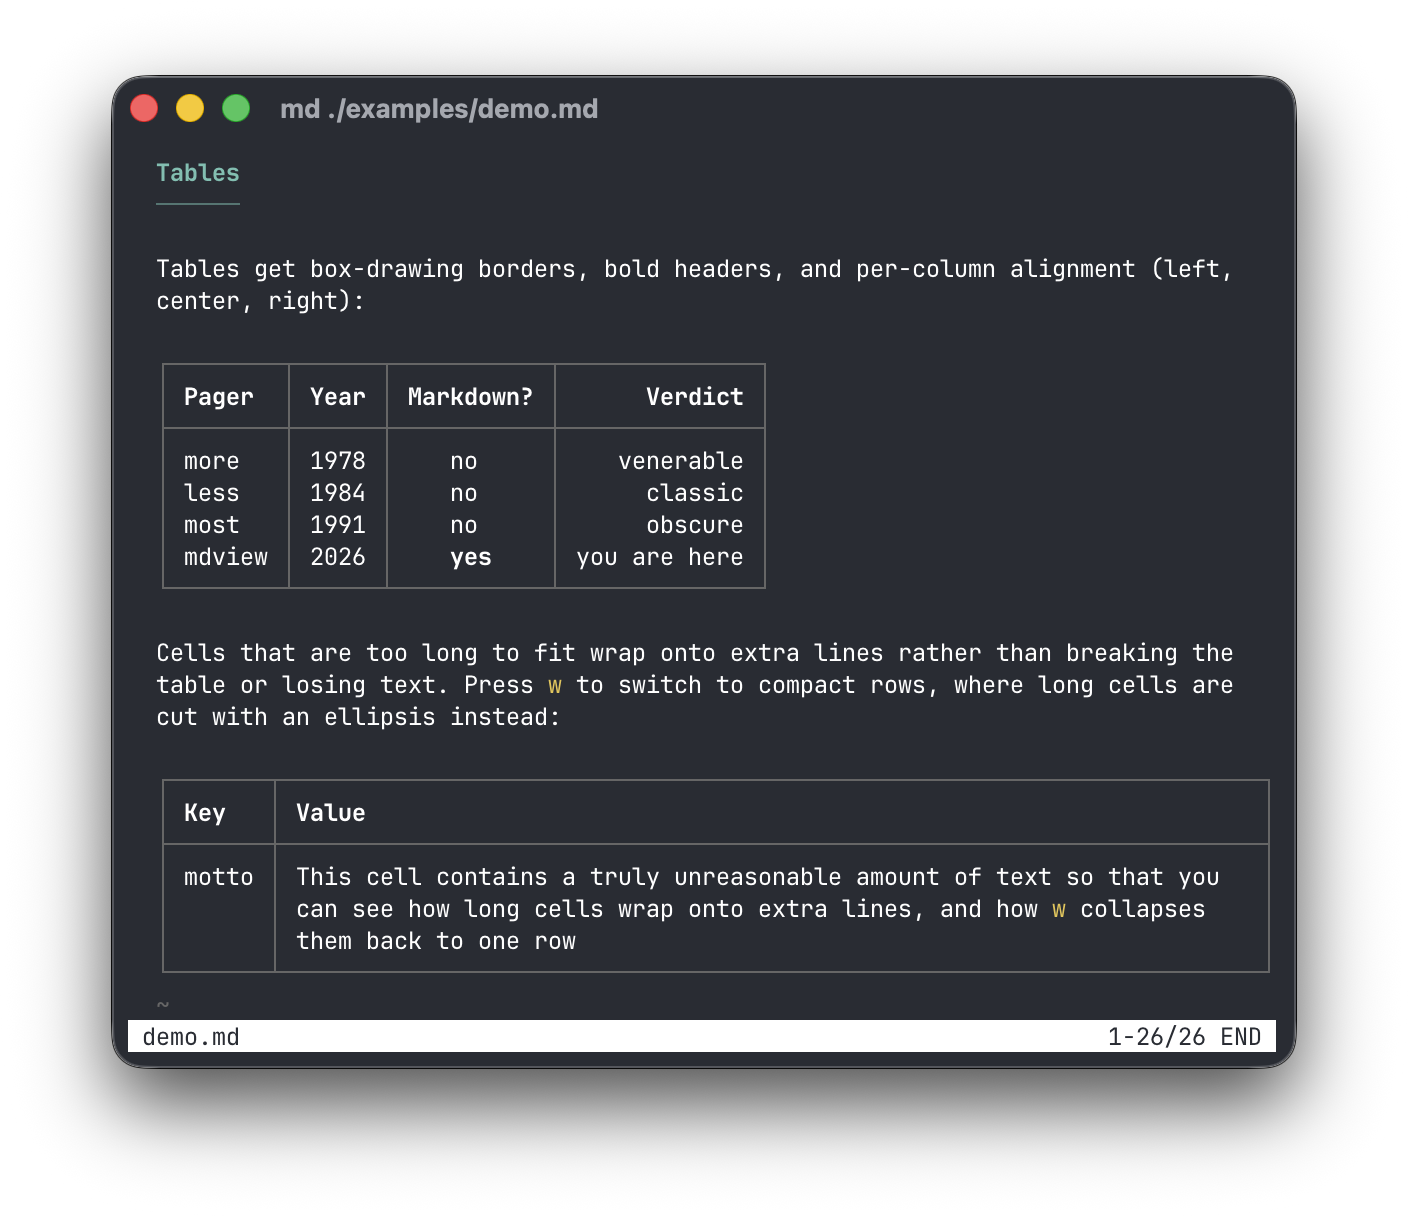
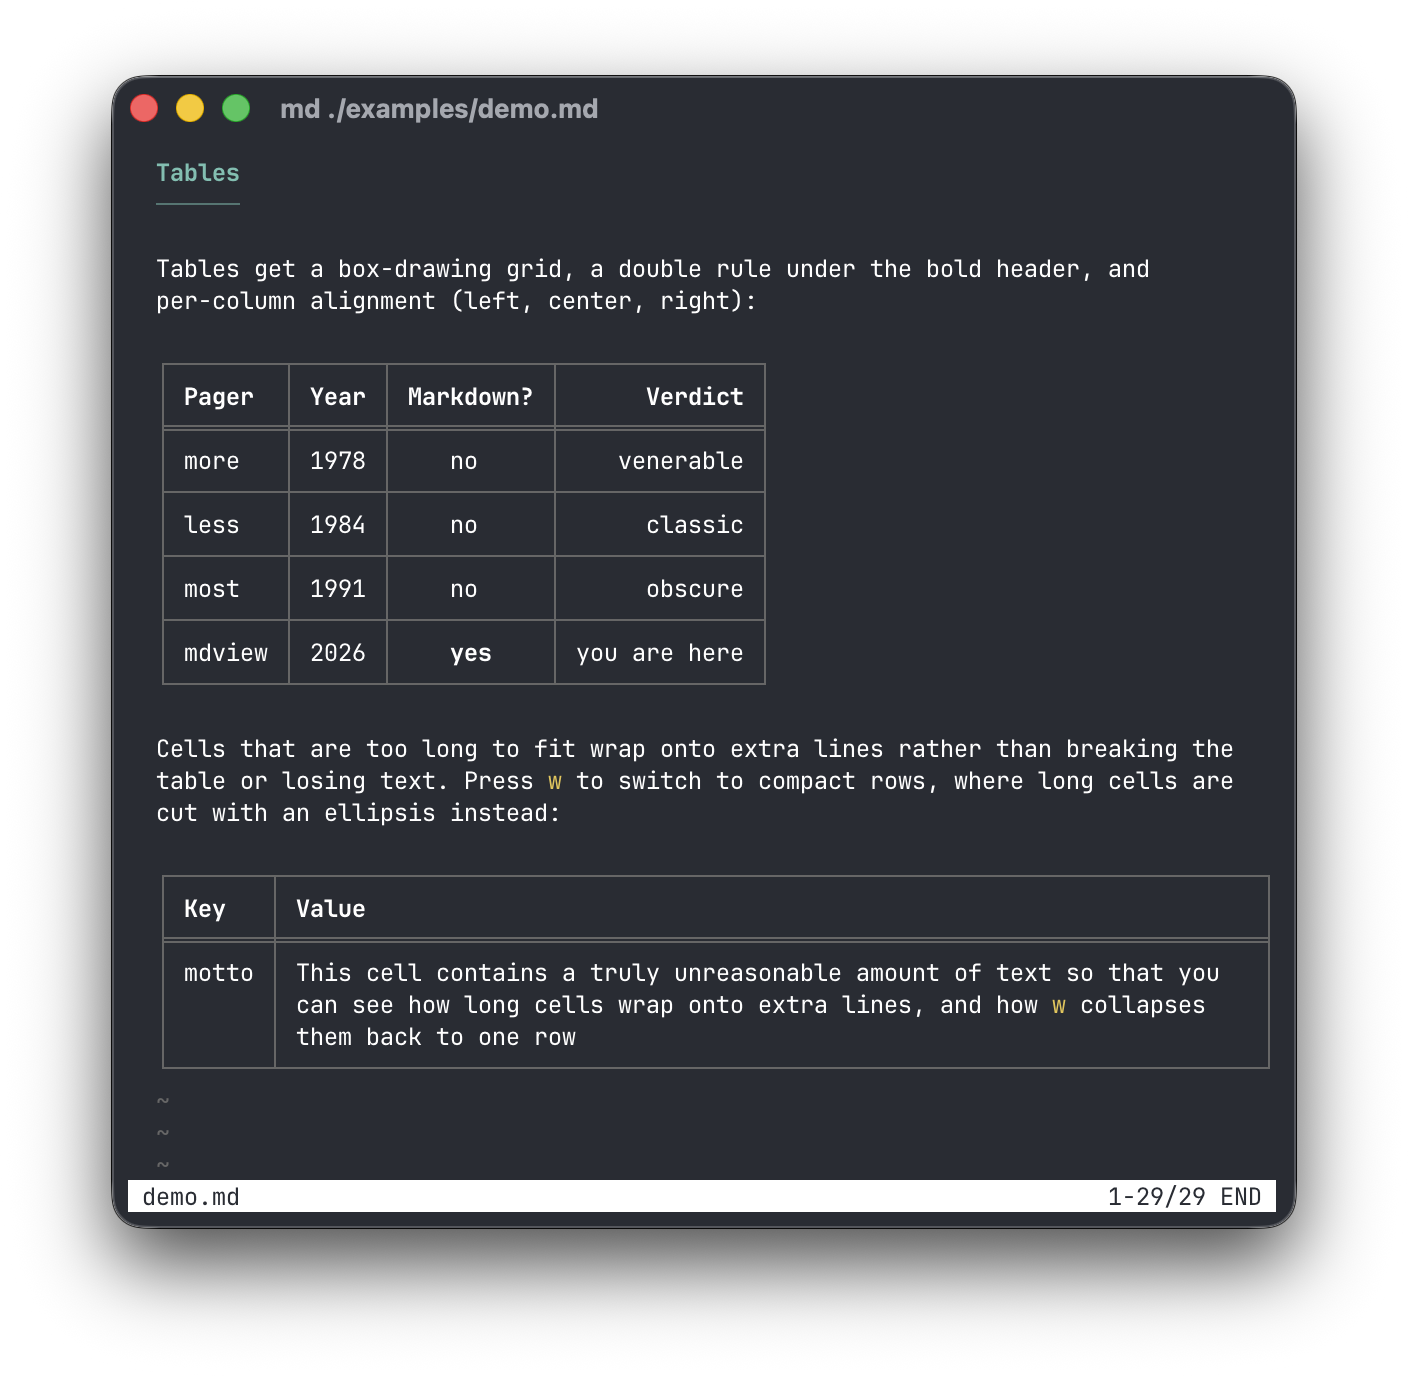
feat: tables render as a full grid with a double rule under the header
A rule between every row keeps wrapped cells unambiguous, and the header
separator is now a double line so the header stands out. README intro,
demo text, and the tables screenshot updated to match.

Claude-Session: https://claude.ai/code/session_018zoyRKg9zWAmPRbK79QrVT

diff --git a/src/render.rs b/src/render.rs
@@ -889,28 +889,33 @@ impl<'a> Renderer<'a> {
             widths[widest] -= 1;
         }
 
-        let hborder = |l: &str, m: &str, r: &str| -> String {
+        let hborder = |l: &str, fill: &str, m: &str, r: &str| -> String {
             let mut s = String::from(l);
             for (i, w) in widths.iter().enumerate() {
-                s.push_str(&"─".repeat(w + 2));
+                s.push_str(&fill.repeat(w + 2));
                 s.push_str(if i + 1 == ncols { r } else { m });
             }
             s
         };
 
-        self.push_line(vec![Span::new(hborder("┌", "┬", "┐"), border.clone())]);
+        // Full grid: a rule between every row so wrapped cells stay
+        // unambiguous, and a double rule under the header to set it apart.
+        self.push_line(vec![Span::new(hborder("┌", "─", "┬", "┐"), border.clone())]);
         if !t.head.is_empty() {
             for line in self.table_row(&t.head, &t.aligns, &widths, true, &border) {
                 self.push_line(line);
             }
-            self.push_line(vec![Span::new(hborder("├", "┼", "┤"), border.clone())]);
+            self.push_line(vec![Span::new(hborder("╞", "═", "╪", "╡"), border.clone())]);
         }
-        for row in &t.rows {
+        for (i, row) in t.rows.iter().enumerate() {
+            if i > 0 {
+                self.push_line(vec![Span::new(hborder("├", "─", "┼", "┤"), border.clone())]);
+            }
             for line in self.table_row(row, &t.aligns, &widths, false, &border) {
                 self.push_line(line);
             }
         }
-        self.push_line(vec![Span::new(hborder("└", "┴", "┘"), border)]);
+        self.push_line(vec![Span::new(hborder("└", "─", "┴", "┘"), border)]);
     }
 
     /// Lays out one table row: a single line in compact mode, or as many

diff --git a/README.md b/README.md
@@ -8,8 +8,8 @@ curl -s https://example.com/notes.md | mdview
 ```
 
 Headings are colored and indexed, paragraphs are reflowed to a configurable
-width, fenced code blocks are syntax-highlighted, tables get box-drawing
-borders, GitHub-style admonitions (`> [!NOTE]`, `> [!WARNING]`, …) get colored
+width, fenced code blocks are syntax-highlighted, tables get a full
+box-drawing grid with a double rule under the header, GitHub-style admonitions (`> [!NOTE]`, `> [!WARNING]`, …) get colored
 bars and titles, and links are emitted as OSC 8 hyperlinks (clickable in
 iTerm2, Ghostty, WezTerm, kitty, and friends). Local images render inline at
 full resolution in any terminal that implements the kitty graphics protocol

diff --git a/examples/demo.md b/examples/demo.md
@@ -161,8 +161,8 @@ Inline code such as `cargo build --release` stays highlighted in prose.
 
 ## Tables
 
-Tables get box-drawing borders, bold headers, and per-column alignment
-(left, center, right):
+Tables get a box-drawing grid, a double rule under the bold header, and
+per-column alignment (left, center, right):
 
 | Pager    | Year | Markdown? |     Verdict |
 |:---------|:----:|:---------:|------------:|
